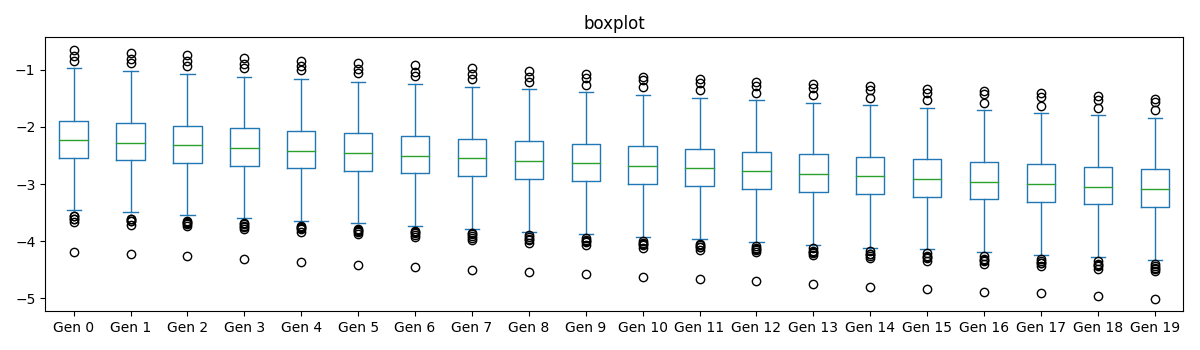
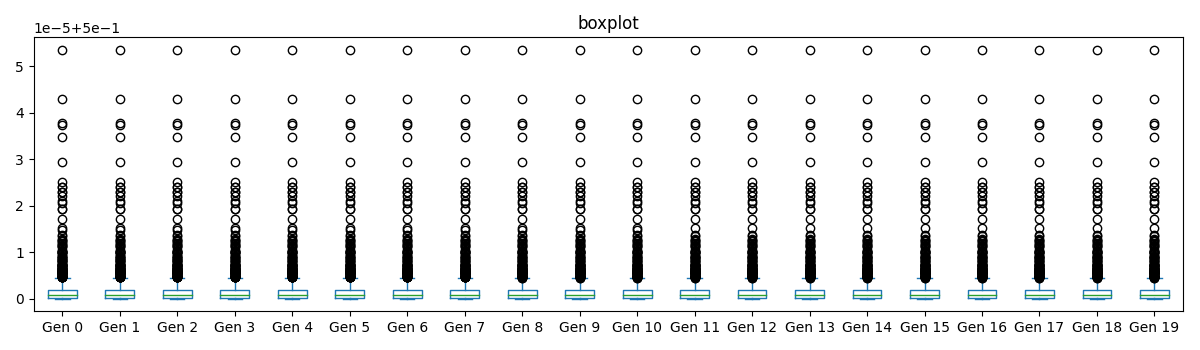
debug selection and mutation

diff --git a/fisher-geometric-model.py b/fisher-geometric-model.py
@@ -8,11 +8,14 @@ def select_parents(population, fitness_func):
     Select the parents that will reproduce
     """
     # Calculate the fitnesses of the population
-    chances = np.log([fitness_func(i) for i in population]) # get logarithmic fitnesses
+    chances = np.ones_like((population.shape[0])) - np.log([fitness_func(i) for i in population]) # get logarithmic fitnesses
     chances /= sum(chances) # normalize the chances
     # Select parents with replacement, weighted by fitness
     parents = []
     for i in range(N):
+        for j in chances:
+            if j < 10**-3:
+                j = 10**-3
         choice= np.random.choice(range(N), p=chances) # TODO: Check with jimmy if I should use raw fitnesses or logarithmic fitnesses or something else
         parents.append(population[choice])
 
@@ -27,7 +30,9 @@ def next_gen(population, fitness_func):
     # mutate offspring
     mutations = np.zeros_like(population)
     for i in range(len(population)):
-        vector = np.random.random((n)) # generate a random mutation vector
+        if np.random.rand() > mu:
+            continue
+        vector = np.random.random((n)) * 2 - 1 # generate a random mutation vector
         vector *= r / np.linalg.norm(vector) # scale to r
         mutations[i] = vector # assign the mutation vector to the offspring
     return mutations, parents
@@ -43,7 +48,7 @@ def plot_fitnesses(fitnesses):
     logarithmic = np.log(fitnesses)
 
     # Pandas dataframe
-    data = pd.DataFrame({f'Gen {i}': logarithmic[i] for i in range(len(logarithmic))})
+    data = pd.DataFrame({f'Gen {i}': fitnesses[i] for i in range(len(logarithmic))})
 
     # Plot the dataframe
     ax = data[[f'Gen {i}' for i in range(len(logarithmic))]].plot(kind='box', title='boxplot')
@@ -51,9 +56,9 @@ def plot_fitnesses(fitnesses):
     # Display the plot
     plt.savefig('imgs/fitnesses-fgm.png')
 
-def simulation(n, a, Q, s0, r, sigma, x, e, m, N, mu, fitness, generations):
+def simulation(n, a, Q, s0, r, sigma, x, e, m, N, mu, fitness, generations, mean, stdev):
     # initialize population
-    population = np.random.normal(1.5, 0.5, size=(N, n)) # random population
+    population = np.random.normal(mean, stdev, size=(N, n)) # random population # TODO: Define mean and stdev separately for each phenotypic trait
     fitnesses = np.zeros((generations, N))
     j = 0
     while j < fitnesses.shape[1]:
@@ -76,26 +81,30 @@ def simulation(n, a, Q, s0, r, sigma, x, e, m, N, mu, fitness, generations):
 if __name__=='__main__':
     """ PARAMETERS """
     # taken from https://www.ncbi.nlm.nih.gov/pmc/articles/PMC4699269/table/T but with population cloud rather than single point
+    # fitness = - Q * exp(-a * distance to peak) + s0
     n = 2 # dimension of phenotypic space
     a = 1.0 # robustness parameter in fitness function
     Q = 1.0 # epistasis parameter in fitness function
     s0 = 0.5 # maladaptaion of ancestor
-    r = 0.05 # length of mutational vector
+    r = 0.5 # length of mutational vector
     sigma = 0.01 # standard deviation of normal deviates of the mutation vector on each axis
-    def x(): # scaled distance to the optimum
+    def x(): # scaled distance to the optimum # TODO: Research in more detail and understand
         return r * np.sqrt(n) / (2 * d)
     e = 1.0 # epistasis defined as big long expression from table, click URL in comment above
-    m = 1 # pleiotropy, number of phenotypes affected by each mutation
-    N = 10 ** 3 # number of individuals in population
-    mu = 10 ** -3 # mutation rate
+    m = 1 # pleiotropy, number of phenotypes affected by each mutation # TODO: Make mutations affect genotype before phenotype
+    N = 10**3 # number of individuals in population
+    mu = 10**-3 # mutation rate
 
     def fitness(phenotype): # fitness function from paper (input is distance from fitness peak)
-        return np.exp(-1 * a * (np.linalg.norm(phenotype) ** Q))
+        return np.exp(-1 * a * (np.linalg.norm(phenotype) ** Q)) + s0
 
     generations = 20 # number of generations to run simulation for
+
+    mean = 10 # starting phenotypic mean
+    stdev = 1.5 # starting phenotypic standard deviation
     """ PARAMETERS """
 
     """ SIMULATION """
     with bar(generations) as b:
-        for i in simulation(n, a, Q, s0, r, sigma, x, e, m, N, mu, fitness, generations):
+        for i in simulation(n, a, Q, s0, r, sigma, x, e, m, N, mu, fitness, generations, mean, stdev):
             b()
